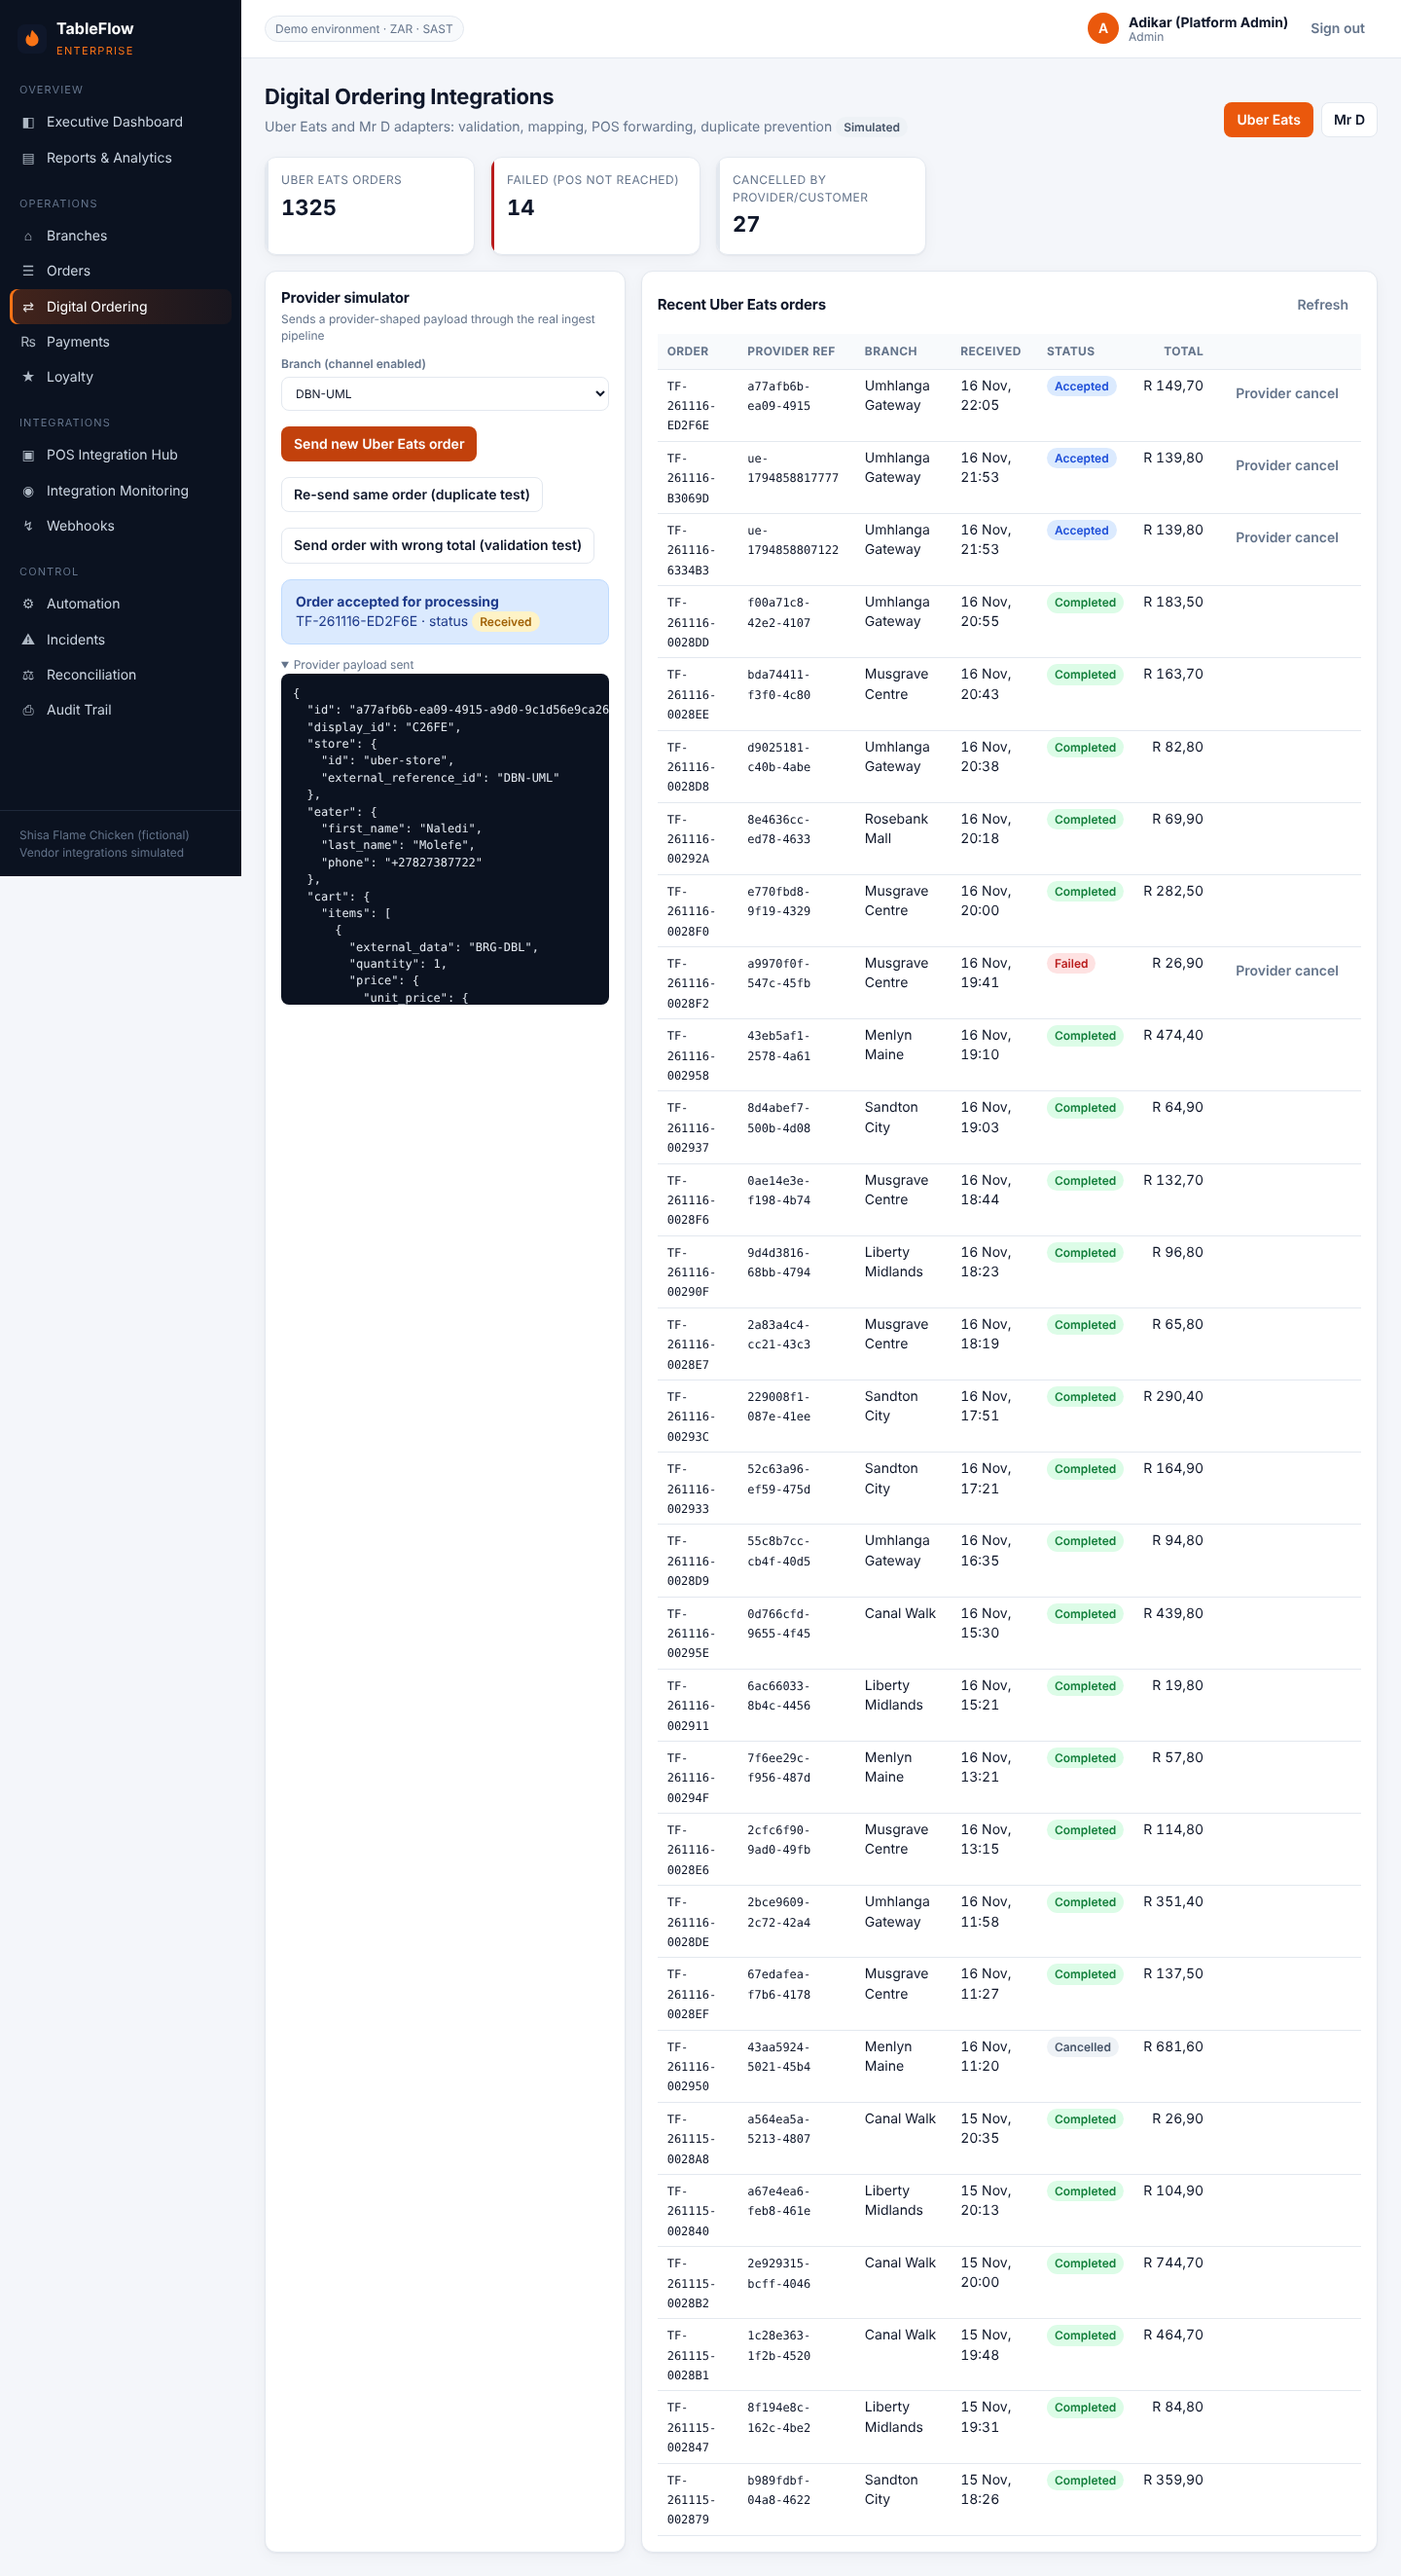
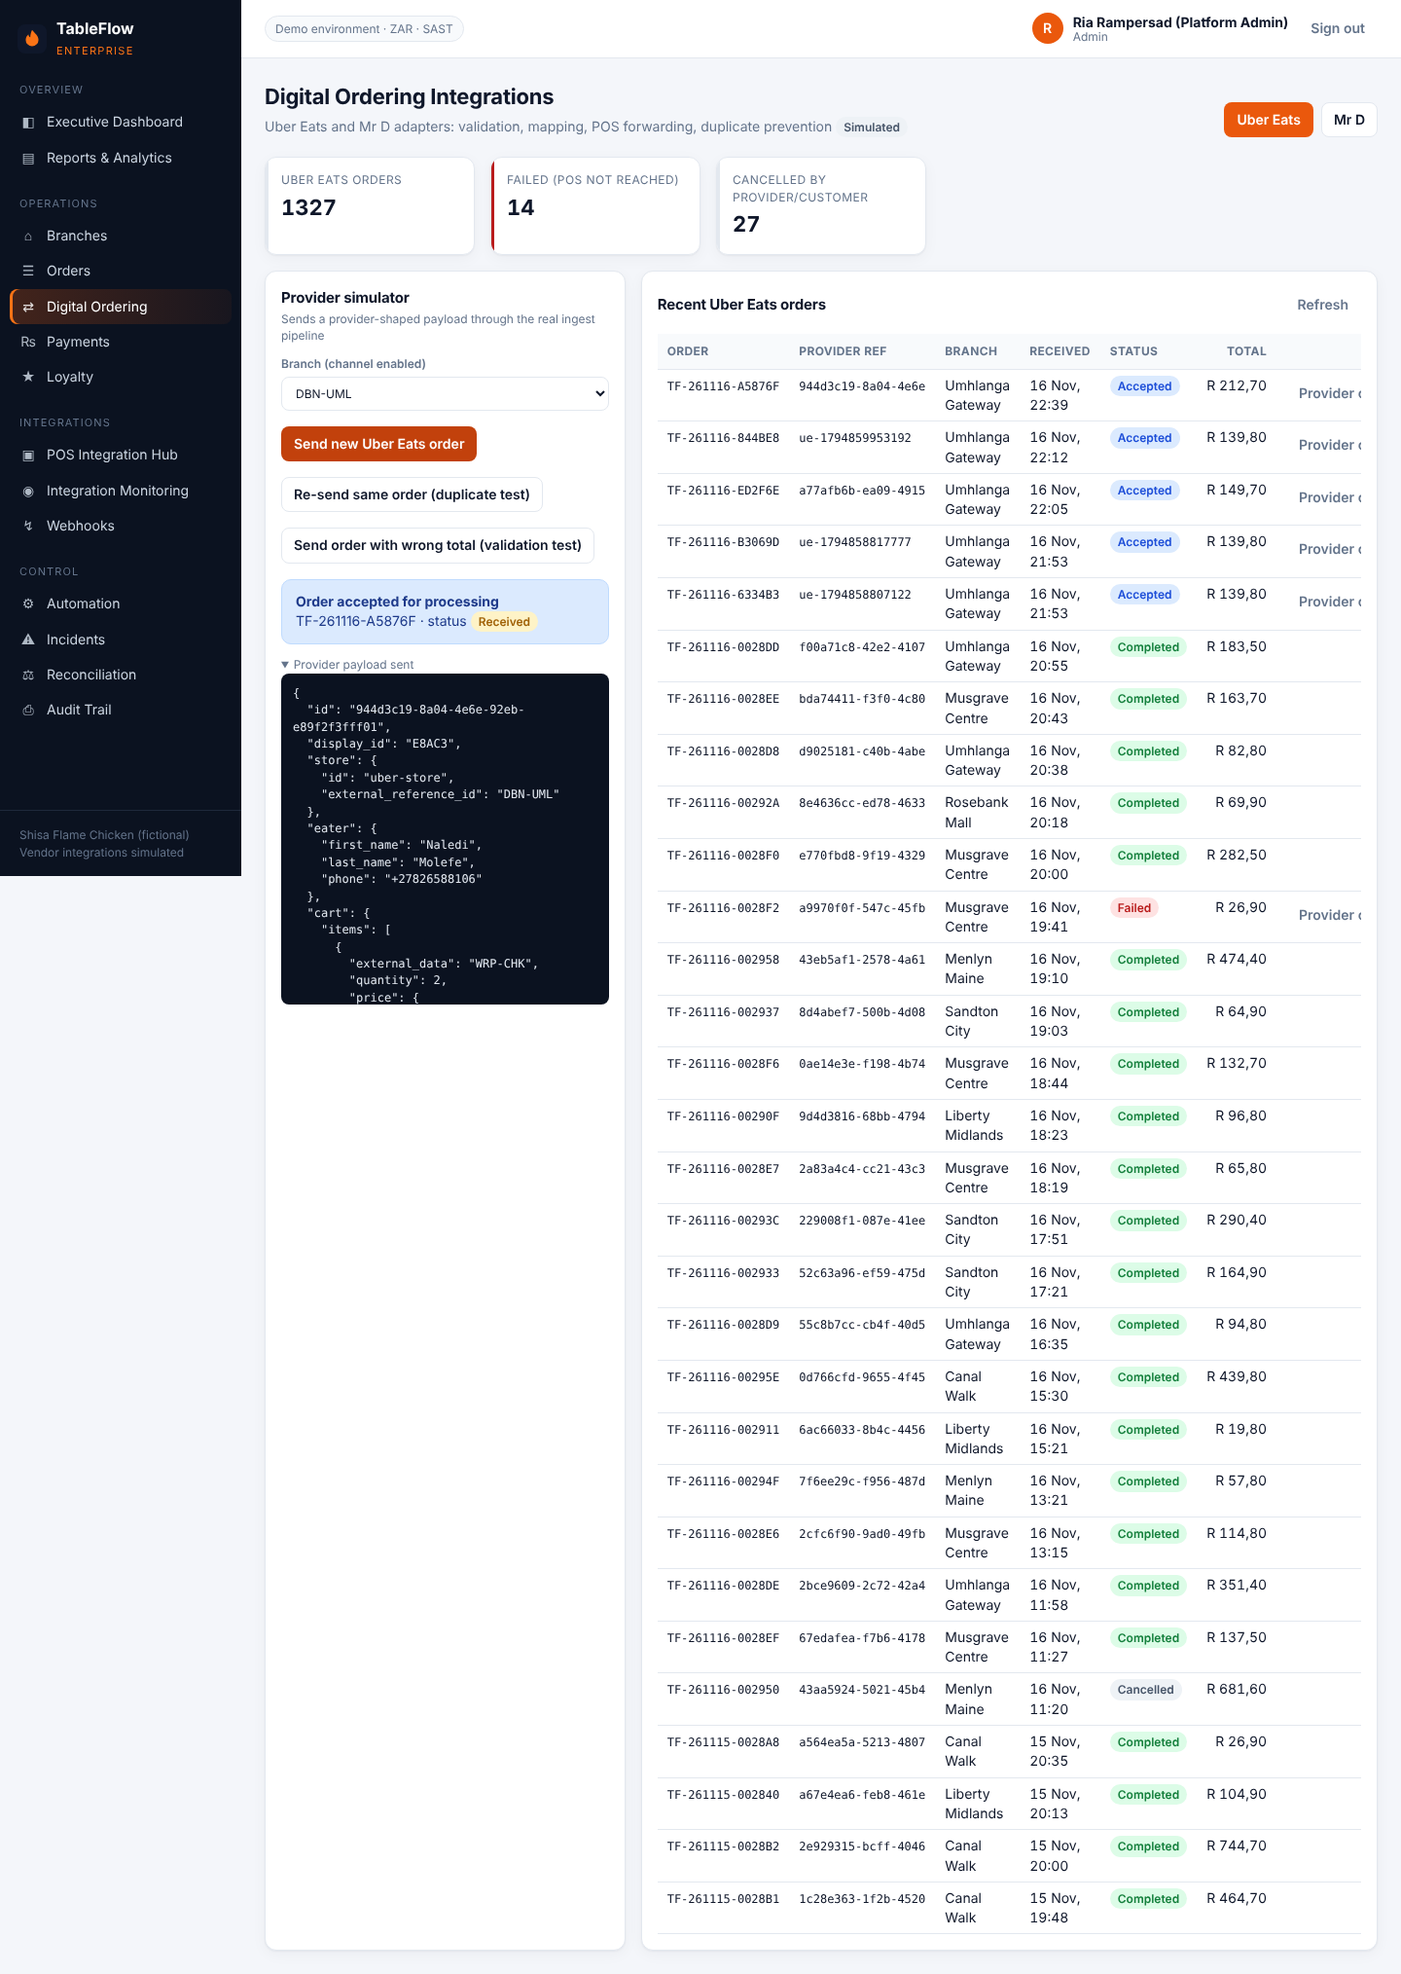
docs: set author to Ria Rampersad; refresh screenshots

diff --git a/backend/app/seed.py b/backend/app/seed.py
@@ -169,7 +169,7 @@ def seed(days: int = 60) -> dict:
         db.add_all(products)
         db.flush()
         users = [
-            User(email="admin@tableflow.local", full_name="Adikar (Platform Admin)", password_hash=demo_pw,
+            User(email="admin@tableflow.local", full_name="Ria Rampersad (Platform Admin)", password_hash=demo_pw,
                  role_id=roles["admin"].id),
             User(email="finance@tableflow.local", full_name="Priya Govender (Finance)", password_hash=demo_pw,
                  role_id=roles["finance"].id),

diff --git a/documentation/10_PERSONAL_PROJECT_EXPERIENCE_GUIDE.md b/documentation/10_PERSONAL_PROJECT_EXPERIENCE_GUIDE.md
@@ -1,6 +1,6 @@
 # 10 · Personal Project Experience & Technical Decision Guide
 
-Use this to describe your contribution **accurately**. TableFlow is an independent portfolio project. Do not
+Prepared for **Ria Rampersad**. Use this to describe your contribution **accurately**. TableFlow is an independent portfolio project. Do not
 describe it as employment, team work, production traffic or a live vendor integration.
 
 ## Honest framing (use these sentences)
@@ -76,7 +76,7 @@ durable job queue; dual webhook secrets during rotation; dbt for the warehouse; 
 retention policy; running the Docker stack and GitHub Actions end to end.
 
 ## Sample interview answers
-**"Tell me about your project."** "I designed and developed TableFlow Enterprise as an independent end-to-end
+**"Tell me about your project."** "My name is Ria Rampersad. I designed and developed TableFlow Enterprise as an independent end-to-end
 portfolio project, aimed at the kind of work in this role. It connects simulated Simphony, a Transaction
 Junction-style gateway, Uber Eats, Mr D and a loyalty platform through a FastAPI backend with PostgreSQL, a React
 TypeScript dashboard and n8n workflows. The parts I'm proudest of are the integration layer — every vendor call goes

diff --git a/documentation/09_PROJECT_DEMONSTRATION_SCRIPT.md b/documentation/09_PROJECT_DEMONSTRATION_SCRIPT.md
@@ -6,7 +6,7 @@ n8n (`:5678`) or a terminal for the local runner, VS Code on the repo; zoom 110%
 
 | Time | Show on screen | Say |
 |---|---|---|
-| 0:00 | README / architecture diagram | "TableFlow Enterprise is a portfolio project I designed and built end to end to practise the Solutions Engineer role: connecting POS, delivery, payments, loyalty and back-office systems for a fictional 12-branch restaurant group. Vendor integrations are simulated — I'll show exactly where." |
+| 0:00 | README / architecture diagram | "I'm Ria Rampersad. TableFlow Enterprise is a portfolio project I designed and built end to end to practise the Solutions Engineer role: connecting POS, delivery, payments, loyalty and back-office systems for a fictional 12-branch restaurant group. Vendor integrations are simulated — I'll show exactly where." |
 
 ## 1. Business problem (2 min)
 Show `requirements/01_…` pain table. Say: "Finance reconciled in Excel days later, delivery orders were re-keyed,

diff --git a/documentation/01_MASTER_PROJECT_HANDBOOK.md b/documentation/01_MASTER_PROJECT_HANDBOOK.md
@@ -1,5 +1,7 @@
 # 01 · Master Project Handbook — TableFlow Enterprise
 
+**Author:** Ria Rampersad
+
 > Read this first. It explains the whole project in the order you would explain it to a technical interviewer.
 > Every claim here is backed by code in this repository; where something is simulated or not verified, it says so.
 
@@ -49,7 +51,7 @@ From the (fictional) stakeholder interviews in `requirements/01_…`:
 
 | Role (`roles.name`) | Demo login | Can do |
 |---|---|---|
-| `admin` | admin@tableflow.local | everything |
+| `admin` (Ria Rampersad) | admin@tableflow.local | everything |
 | `finance` | finance@tableflow.local | reconciliation, refunds, settlement import, finance journals, reports, audit |
 | `operations` | ops@tableflow.local | orders, payments, incidents, automation tools, branch edits |
 | `branch_manager` | manager.umhlanga@tableflow.local | own-branch orders/status/payments, loyalty redemption, incidents |

diff --git a/README.md b/README.md
@@ -1,5 +1,7 @@
 # TableFlow Enterprise
 
+**Author:** Ria Rampersad · independent portfolio project (2026)
+
 **Restaurant operations, payments, integrations & automation platform** — an independent, end-to-end portfolio
 project built to demonstrate the Solutions Engineer role (requirements → design → build → integrate → test →
 deploy → support) for a South African restaurant business.

diff --git a/documentation/00_INDEX.md b/documentation/00_INDEX.md
@@ -1,5 +1,7 @@
 # Documentation Index
 
+TableFlow Enterprise · author: **Ria Rampersad**
+
 Start with **01 Master Project Handbook**, then the Demonstration Script (09) and Interview Handbook (08).
 
 | # | Document | Purpose |
